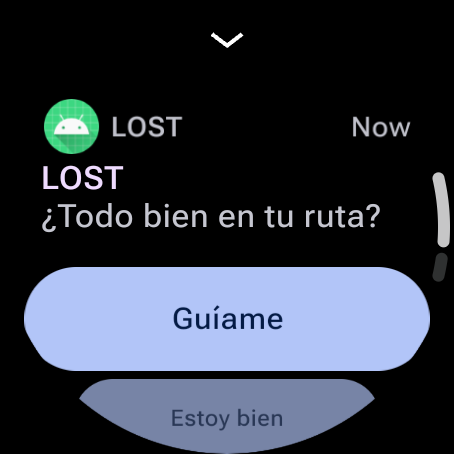
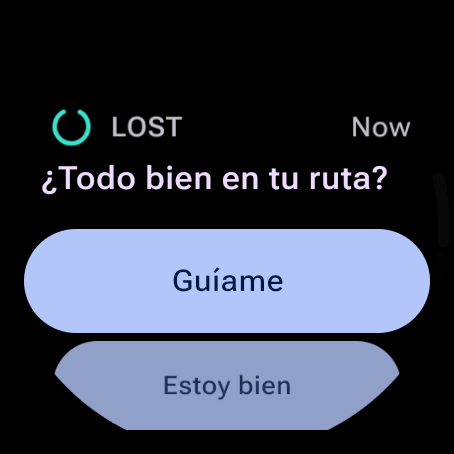
design(assistance): usar la pregunta como título de la notificación en vez de repetir LOST

diff --git a/app/src/main/java/com/lost/watch/integration/AndroidPromptNotifications.kt b/app/src/main/java/com/lost/watch/integration/AndroidPromptNotifications.kt
@@ -21,7 +21,7 @@ import dagger.hilt.android.qualifiers.ApplicationContext
 import javax.inject.Inject
 
 /**
- * 05.3 · La pregunta como notificación del reloj: "LOST" en ámbar, la pregunta y sus botones. No suena (LOST es
+ * 05.3 · La pregunta como notificación del reloj: la pregunta como título, en ámbar, y sus botones. No suena (LOST es
  * discreto) y no se copia al teléfono. Vibra un solo toque de 40 ms: Wear OS deja una notificación sin sonido ni
  * vibración en la sección silenciosa, sin anunciarla, y con la pantalla apagada la pregunta pasaría inadvertida.
  * El patrón propio de cada nivel lo sigue dando la escalada.
@@ -33,8 +33,8 @@ class AndroidPromptNotifications @Inject constructor(@ApplicationContext private
         createChannel()
         val notification = NotificationCompat.Builder(context, CHANNEL_ID)
             .setSmallIcon(DataR.drawable.ic_lost_notification)
-            .setContentTitle(context.getString(R.string.tile_label))
-            .setContentText(context.getString(prompt.question))
+            // El nombre de la app ya aparece arriba: el título es la pregunta.
+            .setContentTitle(context.getString(prompt.question))
             .setColor(SemanticTokens.Status.deviation.toArgb())
             .setCategory(NotificationCompat.CATEGORY_REMINDER)
             .setPriority(NotificationCompat.PRIORITY_HIGH)
